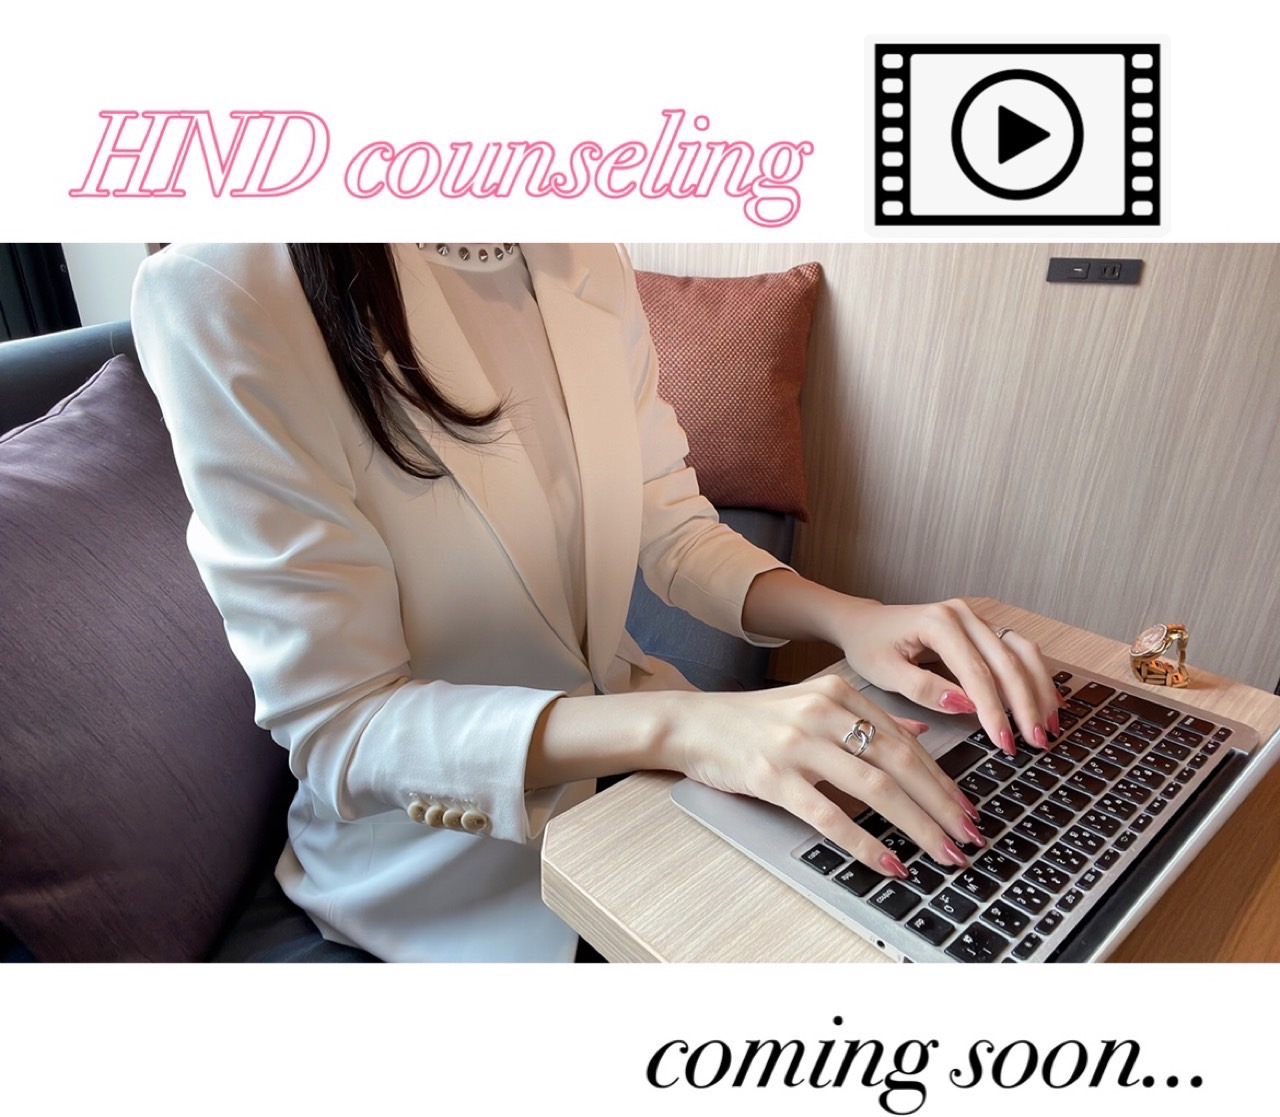
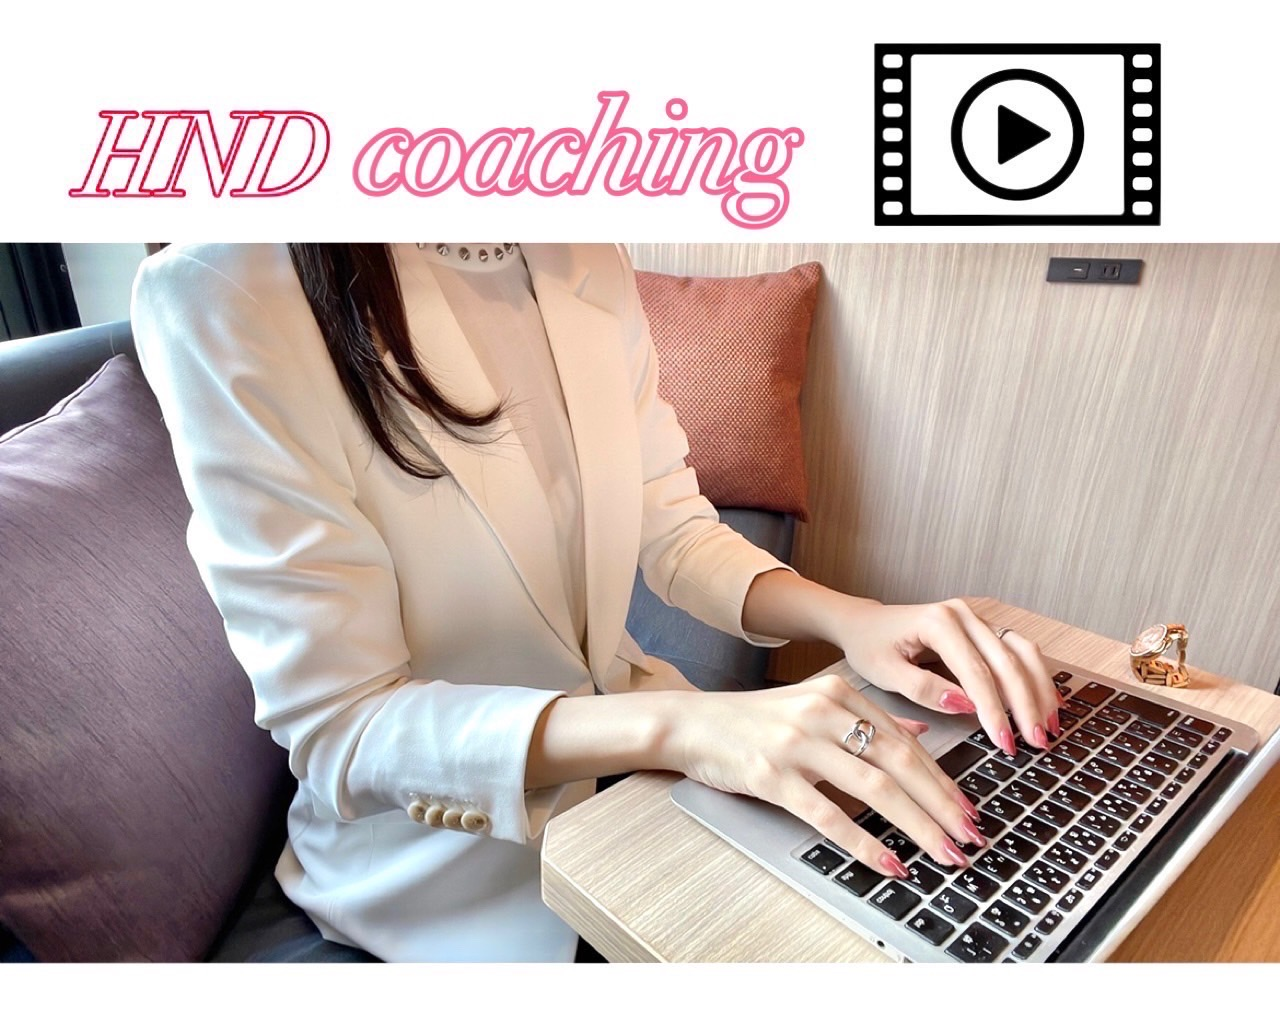
ロゴ修正と動画リンク貼り付け

diff --git a/docs/index.html b/docs/index.html
@@ -19,6 +19,7 @@
     <!-- 2022/08/19 ver 1.0.2  -->
     <!-- 2022/08/19 ver 1.0.3  -->
     <!-- 2022/08/22 ver 1.0.4  -->
+    <!-- 2023/01/26 ver 1.0.5  -->
     <!-- ------------------------------------------------------ -->
     <!-- header -->
     <!-- ------------------------------------------------------ -->
@@ -46,7 +47,7 @@
     <!-- ------------------------------------------------------ -->
     <div id="home-img">
         <div class="home-content">
-            <strong class="home-head">HND counseling</strong>
+            <strong class="home-head">HND coaching</strong>
             <p class="home-text">日々をなんとなく生きている女性へ．．．</p>
             <p class="home-text">航空女子がワンランク上の女性になるマインドを伝授します</p>
         </div>
@@ -133,7 +134,7 @@
         <div class="content-area">
             <h2>Contents</h2>
             <ul class="content-list">
-                <li class="content-items item1"><a href="#"><img src="./images/content1.jpg" alt="content1"></a></li>
+                <li class="content-items item1"><a href="https://hanedaizumi.base.ec/"><img src="./images/content1.jpg" alt="content1"></a></li>
                 <li class="content-items item2"><a href="https://note.com/hanedaizumi"><img src="./images/content2.jpg" alt="content2"></a></li>
             </ul>
         </div>

diff --git a/docs/css/style.css b/docs/css/style.css
@@ -13,7 +13,7 @@ html, body {
   justify-content: start;
   align-items: center; }
   #header .header-title {
-    margin: 0 0 0 30px; }
+    margin: 0 0 0 280px; }
     #header .header-title a {
       text-decoration: none; }
       #header .header-title a img {

diff --git a/docs/scss/style.scss b/docs/scss/style.scss
@@ -41,7 +41,7 @@ html, body {
     justify-content: start;
     align-items: center;
     .header-title {
-        margin: 0 0 0 30px;
+        margin: 0 0 0 280px;
         a {
             text-decoration: none;
             img {
